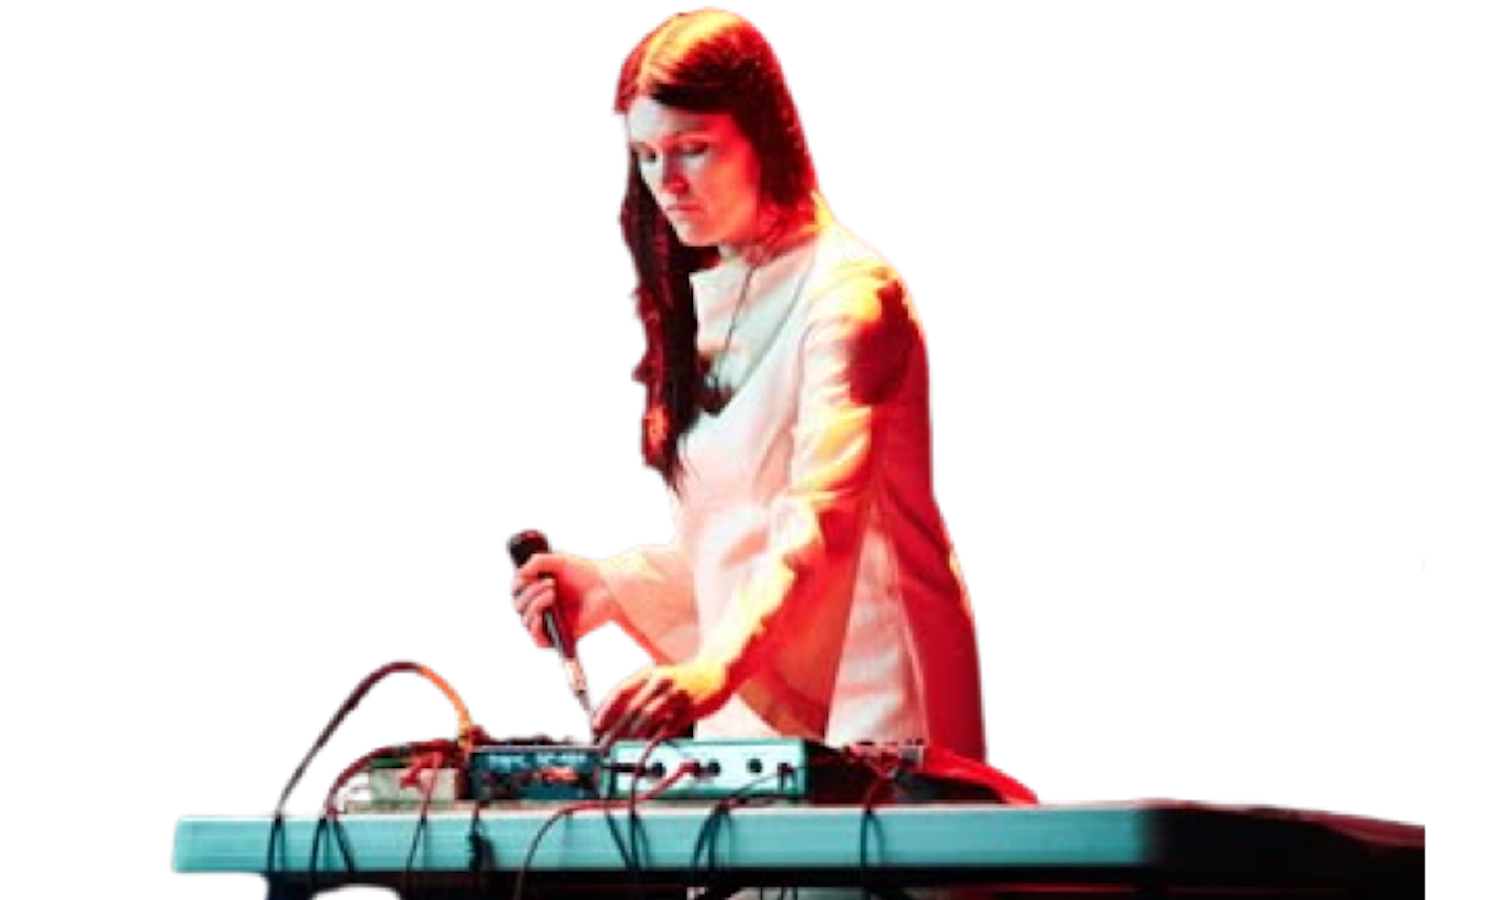
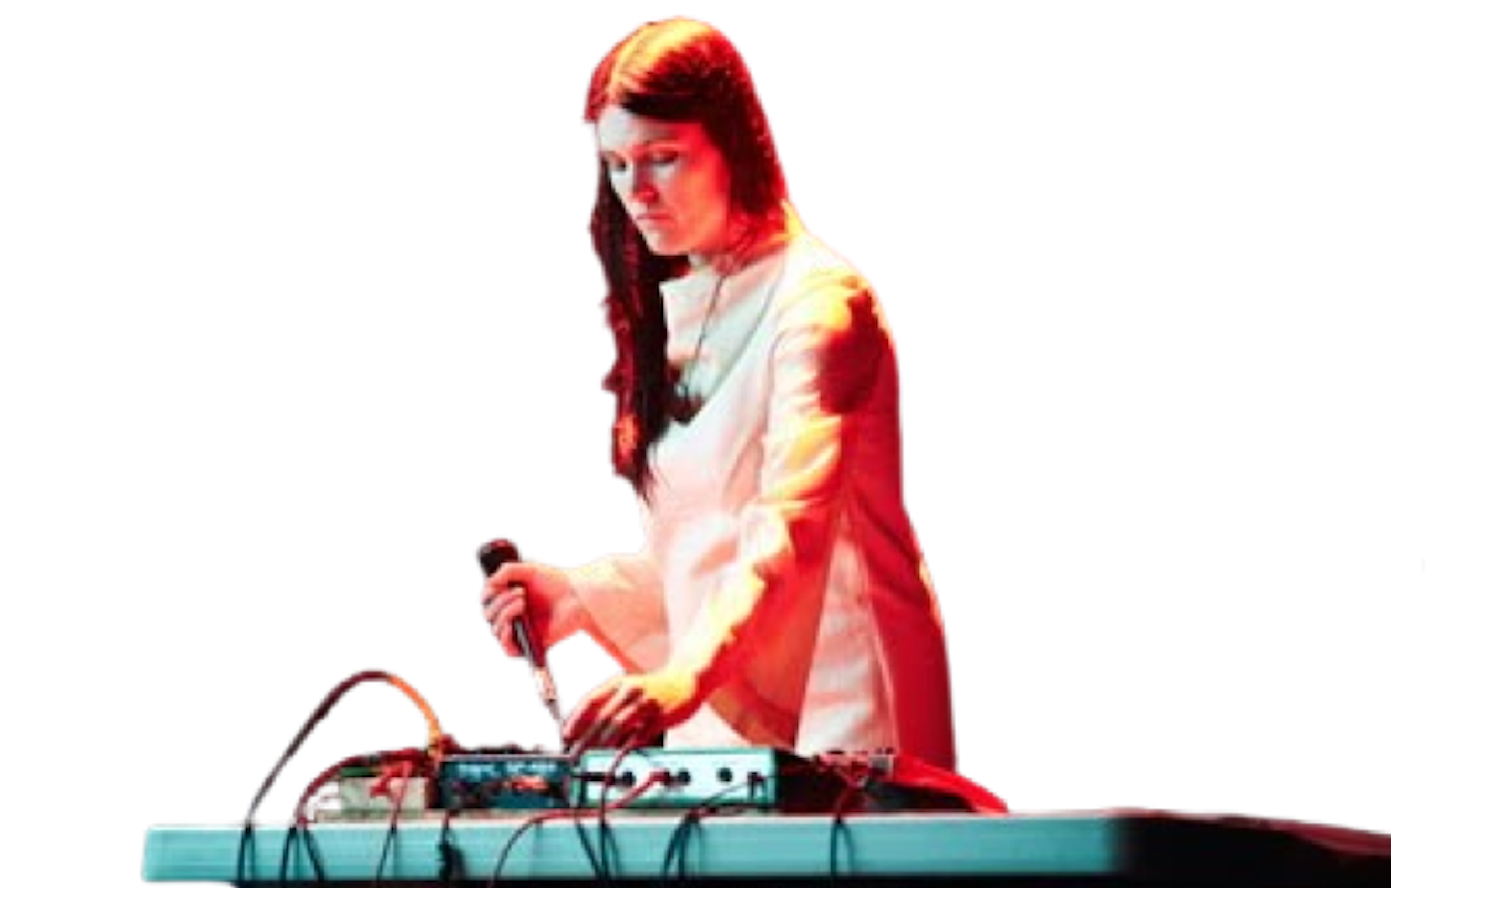
font change and image move

Changed region(s): [[0.092, 0.0, 0.9507, 1.0]]

diff --git a/index.html b/index.html
@@ -80,12 +80,12 @@
         .coquina     { width: 16%; top: 32%;  left: 79%; }
 
         .farfalle    { width: 20%; top: 50%;  left: 11%; }
-        .pink-shell  { width: 17%; top: 51%;  left: 34%; }
+        .pink-shell  { width: 17%; top: 51%;  left: 33%; }
 
         .seal        { width: 19%; top: 70%;  left: 3%; }
         .beta        { width: 15%; top: 72%;  left: 28%; }
-        .trish       { width: 28%; top: 65%;  left: 44%; }
-        .spiral      { width: 14%; top: 55%;  left: 64%; }
+        .trish       { width: 28%; top: 65%;  left: 43%; }
+        .spiral      { width: 14%; top: 55%;  left: 63%; }
         .white-lily  { width: 18%; top: 60%;  left: 78%; }
 
     </style>

diff --git a/lanadelreylyrics/index.html b/lanadelreylyrics/index.html
@@ -5,17 +5,9 @@
     <meta name="viewport" content="width=device-width" , initial-scale="1.0">
     <link rel="stylesheet" href="./style2.css" />
 
-    <style>
-        @font-face {
-            font-family: Curlz;
-            src: url('CURLZ.ttf')
-        }
-    </style>
-
-
 
 </head>
-
+    <title>Lana Del Rey Lyric Generator</title>
 <body>
     <br>
     <div class="boxSize">

diff --git a/style.css b/style.css
@@ -47,6 +47,7 @@ img {
 p {
     font-size: xx-large;
     font-family: Arial, Helvetica, sans-serif;
+    color: cornsilk;
 }
 
 a {
